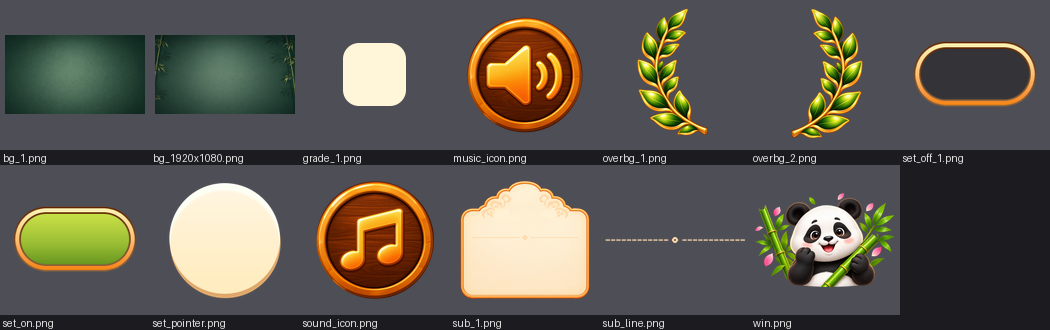
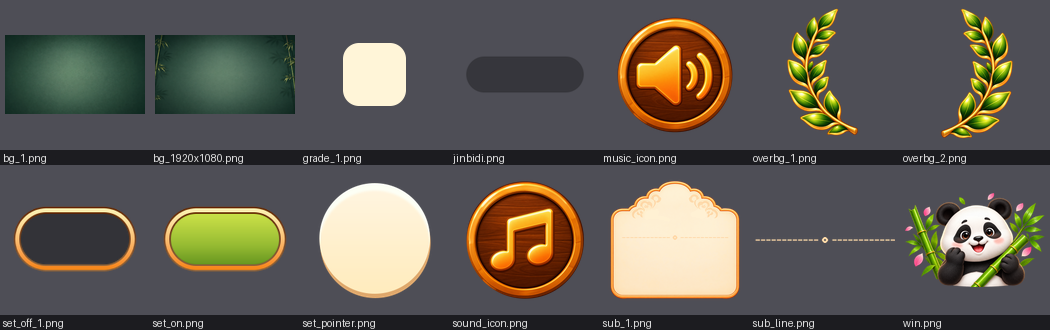
Refresh the pages after the layout and font pass
Menu rebuilt to the artist's proportions, Nunito across the game, orange dialog header in her palette, cream coin pill, her second tile delivery. Screenshots and side-by-side pairs refreshed on both pages.

diff --git a/index.html b/index.html
@@ -33,7 +33,7 @@
 
 <div class="card">
 <h3 style="margin-top:0">Коротко</h3>
-<p>Картинок в игре 428. Наших <b>355</b>, чужих <b>73</b>.</p>
+<p>Картинок в игре 428. Наших <b>356</b>, чужих <b>72</b>.</p>
 <div class="bar"><i style="width:83%"></i></div>
 <p class="muted">Отдельных файлов (атласы, звук): наших 10 из 84. Один файл это пачка картинок,
 поэтому проценты по файлам и по картинкам разные.</p>
@@ -92,7 +92,7 @@
 <img src="sheets/img_left.png" alt="оставшиеся кадры интерфейса">
 
 <h2>Что из присланного Аней ещё не стоит в игре</h2>
-<p>Плитки использованы все, 55 из 55. Из интерфейса лежит без дела 13 файлов:</p>
+<p>Плитки использованы все, 55 из 55. Из интерфейса лежит без дела 14 файлов:</p>
 <img src="sheets/artist_unused.png" alt="неиспользованные файлы художницы">
 <p>Почему: горизонтальные фоны <code>bg_1</code> и <code>bg_1920x1080</code> - игра вертикальная, а
 сукно уже её; <code>win</code> и лавры <code>overbg_1/2</code> - в окне победы нет места под отдельную
